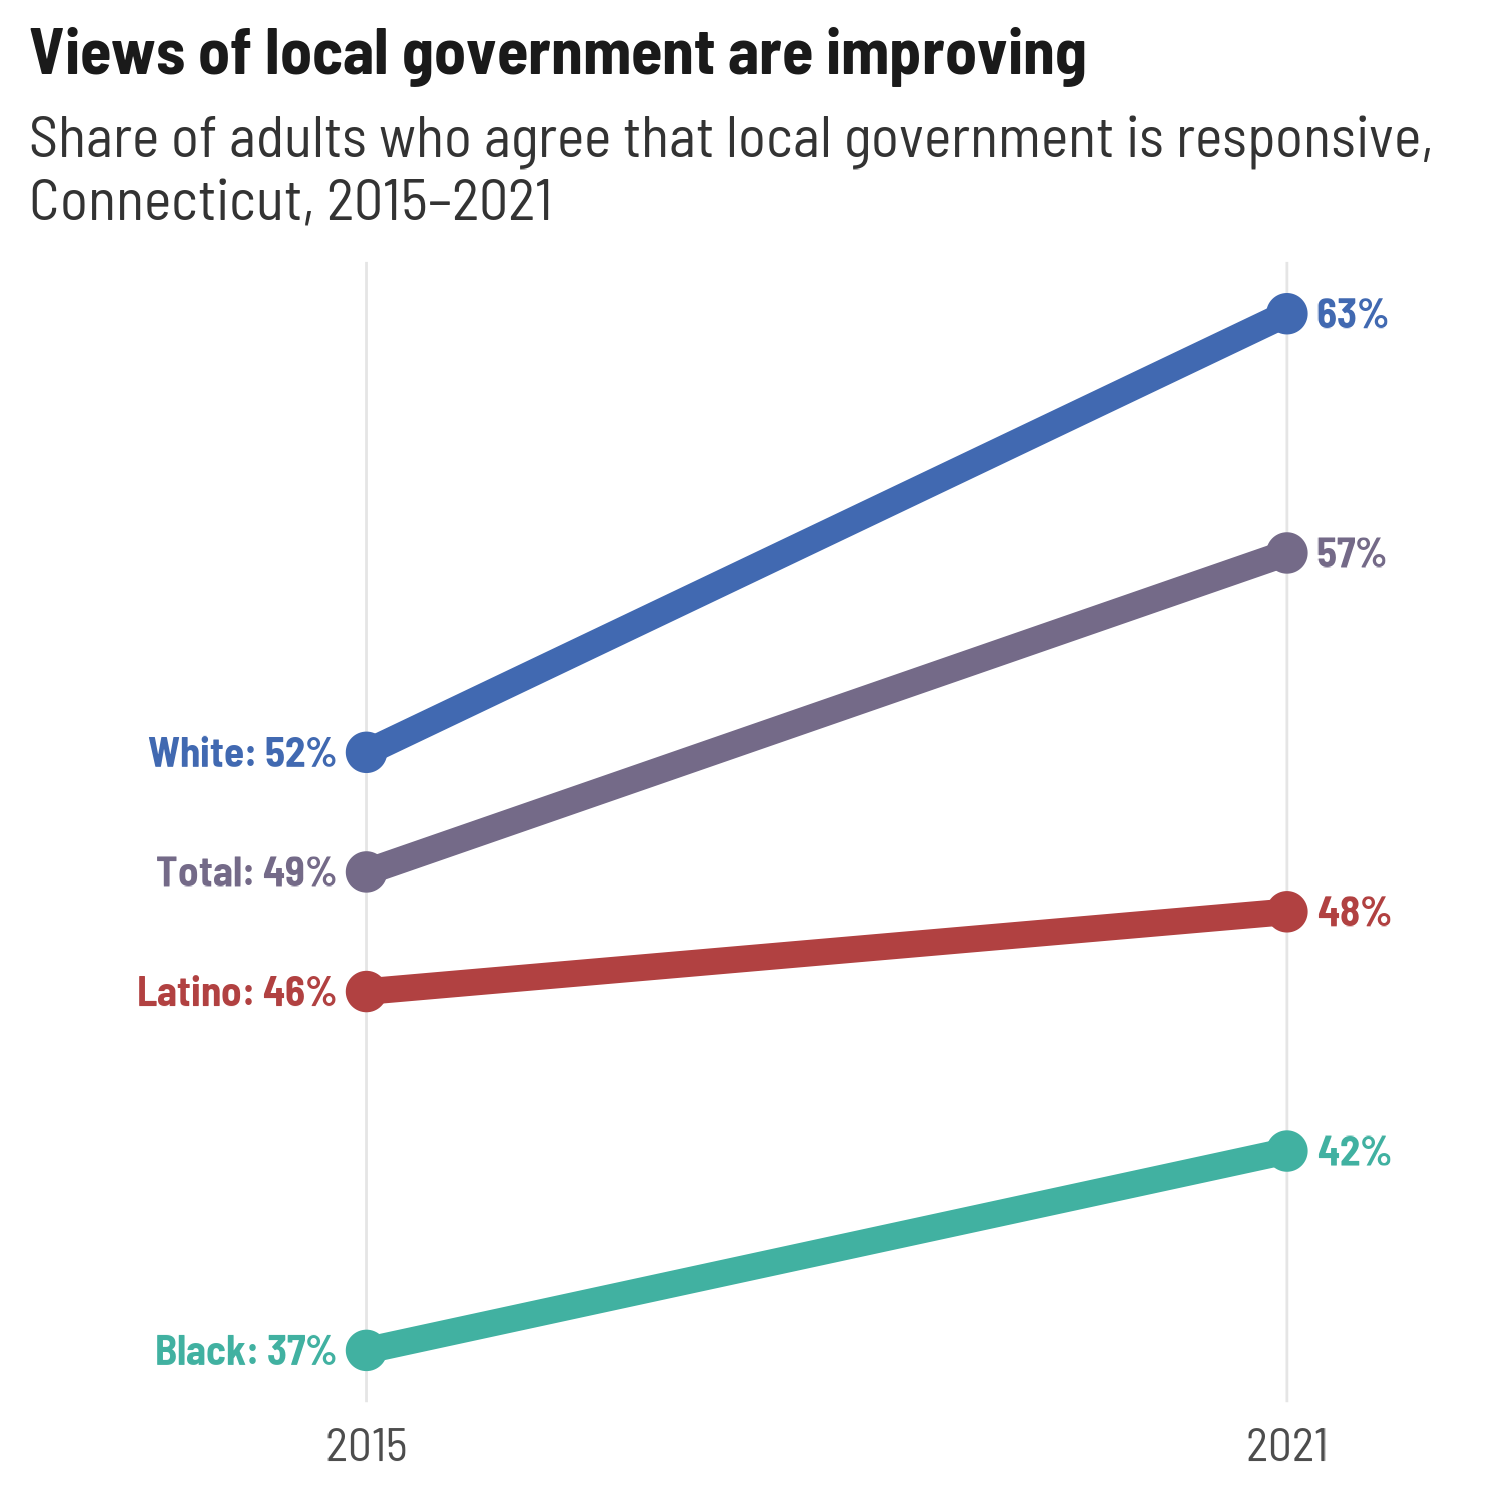
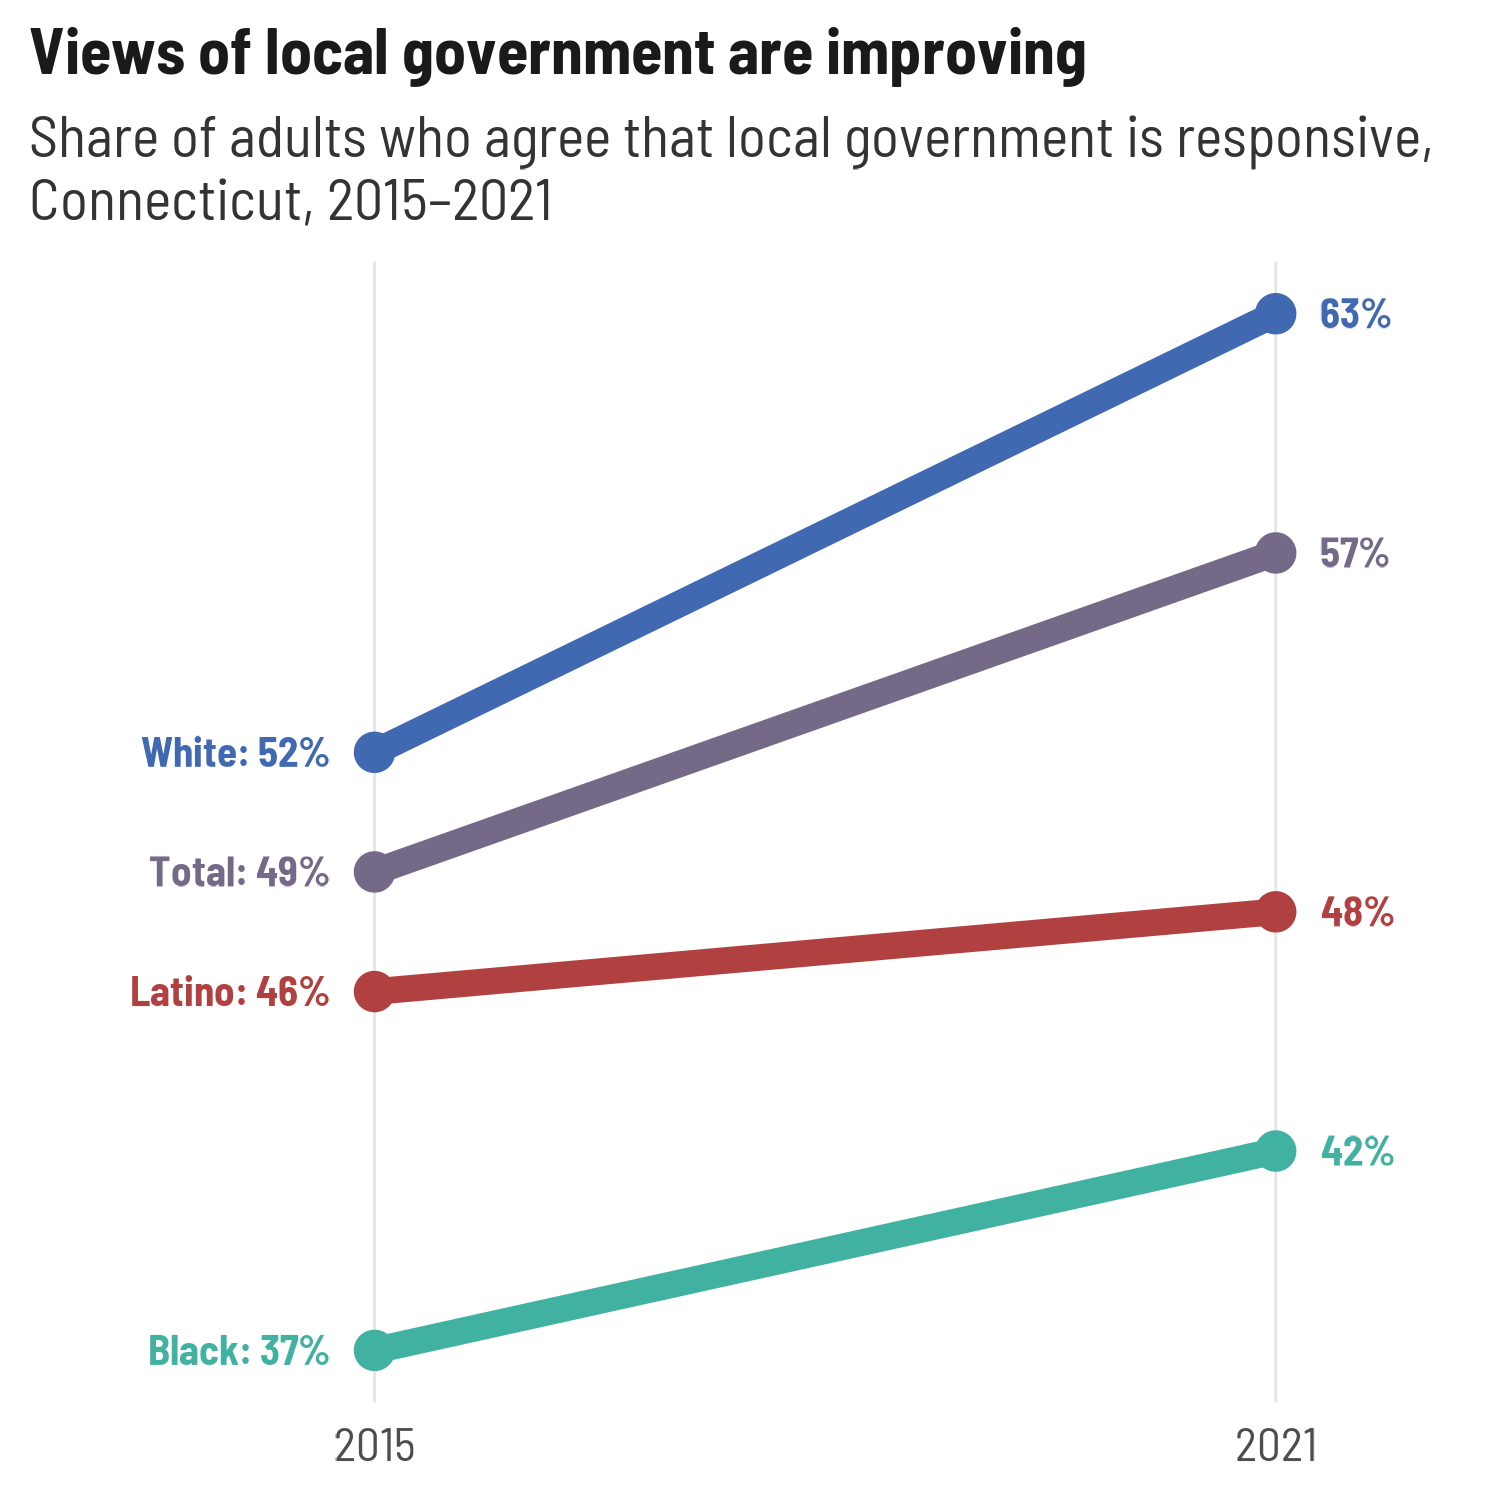
Built site for stylehaven: 0.1.1@e88f3d1

diff --git a/reference/endpoint_lbls.html b/reference/endpoint_lbls.html
@@ -10,7 +10,7 @@
     
     <a class="navbar-brand me-2" href="../index.html">stylehaven</a>
 
-    <small class="nav-text text-muted me-auto" data-bs-toggle="tooltip" data-bs-placement="bottom" title="">0.1.0</small>
+    <small class="nav-text text-muted me-auto" data-bs-toggle="tooltip" data-bs-placement="bottom" title="">0.1.1</small>
 
     
     <button class="navbar-toggler" type="button" data-bs-toggle="collapse" data-bs-target="#navbar" aria-controls="navbar" aria-expanded="false" aria-label="Toggle navigation">
@@ -59,9 +59,10 @@
 <span>  <span class="va">x</span>,</span>
 <span>  <span class="va">value</span>,</span>
 <span>  <span class="va">group</span>,</span>
-<span>  frac <span class="op">=</span> <span class="fl">0.2</span>,</span>
+<span>  mult <span class="op">=</span> <span class="fl">0.05</span>,</span>
+<span>  add <span class="op">=</span> <span class="cn">NULL</span>,</span>
 <span>  fun <span class="op">=</span> <span class="cn">NULL</span>,</span>
-<span>  long_side <span class="op">=</span> <span class="fu"><a href="https://rdrr.io/r/base/c.html" class="external-link">c</a></span><span class="op">(</span><span class="st">"right"</span>, <span class="st">"left"</span>, <span class="st">"both"</span><span class="op">)</span></span>
+<span>  long_side <span class="op">=</span> <span class="fu"><a href="https://rdrr.io/r/base/c.html" class="external-link">c</a></span><span class="op">(</span><span class="st">"right"</span>, <span class="st">"left"</span>, <span class="st">"both"</span>, <span class="st">"none"</span><span class="op">)</span></span>
 <span><span class="op">)</span></span></code></pre></div>
     </div>
 
@@ -83,8 +84,12 @@
 <dd><p>Bare column name of the name or grouping variable that should be shown in the labels.</p></dd>
 
 
-<dt>frac</dt>
-<dd><p>Numeric; ratio to the <code>x</code> variable by which labels should be offset. Default: 0.2</p></dd>
+<dt>mult</dt>
+<dd><p>Numeric; ratio to the <code>x</code> variable by which labels should be offset. Default: 0.05.</p></dd>
+
+
+<dt>add</dt>
+<dd><p>Numeric; single value along the <code>x</code> variable by which labels should be offset. Defaults <code>NULL</code>. If both <code>mult</code> and <code>add</code> are given, <code>mult</code> takes precedence. Previously there was a <code>frac</code> argument which was supposed to act like <code>mult</code> but erroneously acted like <code>add</code>.</p></dd>
 
 
 <dt>fun</dt>
@@ -92,7 +97,7 @@
 
 
 <dt>long_side</dt>
-<dd><p>Character, either <code>"right"</code> (the default), <code>"left"</code>, or <code>"both"</code>. For <code>"left"</code> or <code>"right"</code>, this refers to whether the longer label should be on the right or the left, returning a short label on the opposite side. If <code>"both"</code>, only the long label is returned. Labels are combined in a new column called <code>lbl</code>.</p></dd>
+<dd><p>Character, either <code>"right"</code> (the default), <code>"left"</code>, <code>"both"</code>, or <code>"none"</code>. For <code>"left"</code> or <code>"right"</code>, this refers to whether the longer label should be on the right or the left, returning a short label on the opposite side. If <code>"both"</code>, only long labels are returned; if <code>"none"</code>, only short labels are returned. Regardless, labels are combined in a new column called <code>lbl</code>.</p></dd>
 
 </dl></div>
     <div class="section level2">
@@ -106,9 +111,7 @@
 
     <div class="section level2">
     <h2 id="ref-examples">Examples<a class="anchor" aria-label="anchor" href="#ref-examples"></a></h2>
-    <div class="sourceCode"><pre class="sourceCode r"><code><span class="r-in"><span><span class="kw">if</span> <span class="op">(</span><span class="cn">FALSE</span><span class="op">)</span> <span class="op">{</span></span></span>
-<span class="r-in"><span><span class="kw">if</span><span class="op">(</span><span class="fu"><a href="https://rdrr.io/r/base/interactive.html" class="external-link">interactive</a></span><span class="op">(</span><span class="op">)</span><span class="op">)</span><span class="op">{</span></span></span>
-<span class="r-in"><span>   <span class="kw"><a href="https://rdrr.io/r/base/library.html" class="external-link">library</a></span><span class="op">(</span><span class="va"><a href="https://ggplot2.tidyverse.org" class="external-link">ggplot2</a></span><span class="op">)</span></span></span>
+    <div class="sourceCode"><pre class="sourceCode r"><code><span class="r-in"><span>   <span class="kw"><a href="https://rdrr.io/r/base/library.html" class="external-link">library</a></span><span class="op">(</span><span class="va"><a href="https://ggplot2.tidyverse.org" class="external-link">ggplot2</a></span><span class="op">)</span></span></span>
 <span class="r-in"><span>   <span class="co"># note that it will still be up to your judgment to set scale expansion,</span></span></span>
 <span class="r-in"><span>   <span class="co"># since that will depend on things outside the scope of just this function</span></span></span>
 <span class="r-in"><span>   <span class="va">cws_trend</span> <span class="op"><a href="pipe.html">%&gt;%</a></span></span></span>
@@ -120,18 +123,18 @@
 <span class="r-in"><span>     <span class="fu"><a href="https://ggplot2.tidyverse.org/reference/geom_point.html" class="external-link">geom_point</a></span><span class="op">(</span>size <span class="op">=</span> <span class="fl">3</span><span class="op">)</span> <span class="op">+</span></span></span>
 <span class="r-in"><span>     <span class="fu"><a href="https://ggplot2.tidyverse.org/reference/geom_text.html" class="external-link">geom_text</a></span><span class="op">(</span><span class="fu"><a href="https://ggplot2.tidyverse.org/reference/aes.html" class="external-link">aes</a></span><span class="op">(</span>label <span class="op">=</span> <span class="va">lbl</span>, hjust <span class="op">=</span> <span class="va">just</span>, x <span class="op">=</span> <span class="va">x</span><span class="op">)</span><span class="op">)</span> <span class="op">+</span></span></span>
 <span class="r-in"><span>     <span class="fu"><a href="https://ggplot2.tidyverse.org/reference/scale_continuous.html" class="external-link">scale_x_continuous</a></span><span class="op">(</span>expand <span class="op">=</span> <span class="fu"><a href="https://ggplot2.tidyverse.org/reference/expansion.html" class="external-link">expansion</a></span><span class="op">(</span>add <span class="op">=</span> <span class="fu"><a href="https://rdrr.io/r/base/c.html" class="external-link">c</a></span><span class="op">(</span><span class="fl">1</span>, <span class="fl">2</span><span class="op">)</span><span class="op">)</span><span class="op">)</span></span></span>
+<span class="r-plt img"><img src="endpoint_lbls-1.png" alt="" width="700" height="433"></span>
 <span class="r-in"><span></span></span>
 <span class="r-in"><span>   <span class="va">cws_trend</span> <span class="op"><a href="pipe.html">%&gt;%</a></span></span></span>
 <span class="r-in"><span>     <span class="fu">dplyr</span><span class="fu">::</span><span class="fu"><a href="https://dplyr.tidyverse.org/reference/filter.html" class="external-link">filter</a></span><span class="op">(</span><span class="va">indicator</span> <span class="op">==</span> <span class="st">"local_govt_responsive"</span>, <span class="va">category</span> <span class="op">==</span> <span class="st">"Age"</span><span class="op">)</span> <span class="op"><a href="pipe.html">%&gt;%</a></span></span></span>
 <span class="r-in"><span>     <span class="fu">endpoint_lbls</span><span class="op">(</span>value <span class="op">=</span> <span class="va">value</span>, x <span class="op">=</span> <span class="va">year</span>, group <span class="op">=</span> <span class="va">group</span>, long_side <span class="op">=</span> <span class="st">"both"</span>,</span></span>
-<span class="r-in"><span>                   fun <span class="op">=</span> <span class="va">percent100</span><span class="op">)</span> <span class="op"><a href="pipe.html">%&gt;%</a></span></span></span>
+<span class="r-in"><span>                   fun <span class="op">=</span> <span class="va">percent100</span>, add <span class="op">=</span> <span class="fl">0.1</span>, mult <span class="op">=</span> <span class="cn">NULL</span><span class="op">)</span> <span class="op"><a href="pipe.html">%&gt;%</a></span></span></span>
 <span class="r-in"><span>     <span class="fu"><a href="https://ggplot2.tidyverse.org/reference/ggplot.html" class="external-link">ggplot</a></span><span class="op">(</span><span class="fu"><a href="https://ggplot2.tidyverse.org/reference/aes.html" class="external-link">aes</a></span><span class="op">(</span>x <span class="op">=</span> <span class="va">year</span>, y <span class="op">=</span> <span class="va">value</span>, color <span class="op">=</span> <span class="va">group</span><span class="op">)</span><span class="op">)</span> <span class="op">+</span></span></span>
 <span class="r-in"><span>     <span class="fu"><a href="https://ggplot2.tidyverse.org/reference/geom_path.html" class="external-link">geom_line</a></span><span class="op">(</span><span class="op">)</span> <span class="op">+</span></span></span>
 <span class="r-in"><span>     <span class="fu"><a href="https://ggplot2.tidyverse.org/reference/geom_point.html" class="external-link">geom_point</a></span><span class="op">(</span>size <span class="op">=</span> <span class="fl">3</span><span class="op">)</span> <span class="op">+</span></span></span>
 <span class="r-in"><span>     <span class="fu"><a href="https://ggplot2.tidyverse.org/reference/geom_text.html" class="external-link">geom_text</a></span><span class="op">(</span><span class="fu"><a href="https://ggplot2.tidyverse.org/reference/aes.html" class="external-link">aes</a></span><span class="op">(</span>label <span class="op">=</span> <span class="va">lbl</span>, hjust <span class="op">=</span> <span class="va">just</span>, x <span class="op">=</span> <span class="va">x</span><span class="op">)</span><span class="op">)</span> <span class="op">+</span></span></span>
 <span class="r-in"><span>     <span class="fu"><a href="https://ggplot2.tidyverse.org/reference/scale_continuous.html" class="external-link">scale_x_continuous</a></span><span class="op">(</span>expand <span class="op">=</span> <span class="fu"><a href="https://ggplot2.tidyverse.org/reference/expansion.html" class="external-link">expansion</a></span><span class="op">(</span>add <span class="op">=</span> <span class="fl">2</span><span class="op">)</span><span class="op">)</span></span></span>
-<span class="r-in"><span> <span class="op">}</span></span></span>
-<span class="r-in"><span><span class="op">}</span></span></span>
+<span class="r-plt img"><img src="endpoint_lbls-2.png" alt="" width="700" height="433"></span>
 </code></pre></div>
     </div>
   </main><aside class="col-md-3"><nav id="toc"><h2>On this page</h2>

diff --git a/reference/palx.html b/reference/palx.html
@@ -12,7 +12,7 @@ You can view a palette graphically by running plot(my_palx), by setting plot = T
     
     <a class="navbar-brand me-2" href="../index.html">stylehaven</a>
 
-    <small class="nav-text text-muted me-auto" data-bs-toggle="tooltip" data-bs-placement="bottom" title="">0.1.0</small>
+    <small class="nav-text text-muted me-auto" data-bs-toggle="tooltip" data-bs-placement="bottom" title="">0.1.1</small>
 
     
     <button class="navbar-toggler" type="button" data-bs-toggle="collapse" data-bs-target="#navbar" aria-controls="navbar" aria-expanded="false" aria-label="Toggle navigation">
@@ -70,7 +70,7 @@ You can view a palette graphically by running plot(my_palx), by setting plot = T
 <span><span class="co"># S3 method for palx</span></span>
 <span><span class="fu">as_tibble</span><span class="op">(</span><span class="va">x</span>, <span class="va">...</span><span class="op">)</span></span>
 <span></span>
-<span><span class="fu">plot_palx</span><span class="op">(</span><span class="va">x</span>, labels <span class="op">=</span> <span class="cn">FALSE</span><span class="op">)</span></span></code></pre></div>
+<span><span class="fu">plot_palx</span><span class="op">(</span><span class="va">x</span>, <span class="va">...</span>, labels <span class="op">=</span> <span class="cn">FALSE</span><span class="op">)</span></span></code></pre></div>
     </div>
 
     <div class="section level2">
@@ -109,6 +109,10 @@ You can view a palette graphically by running plot(my_palx), by setting plot = T
 
 <dt>x</dt>
 <dd><p>The output of calling <code>palx</code>, as either a list or data frame</p></dd>
+
+
+<dt>...</dt>
+<dd><p>Not used</p></dd>
 
 </dl></div>
     <div class="section level2">

diff --git a/reference/dodge_lbls.html b/reference/dodge_lbls.html
@@ -28,7 +28,7 @@ dplyr::anti_join for the ones that don't need to be dodged (see example)."><!-- 
     
     <a class="navbar-brand me-2" href="../index.html">stylehaven</a>
 
-    <small class="nav-text text-muted me-auto" data-bs-toggle="tooltip" data-bs-placement="bottom" title="">0.1.0</small>
+    <small class="nav-text text-muted me-auto" data-bs-toggle="tooltip" data-bs-placement="bottom" title="">0.1.1</small>
 
     
     <button class="navbar-toggler" type="button" data-bs-toggle="collapse" data-bs-target="#navbar" aria-controls="navbar" aria-expanded="false" aria-label="Toggle navigation">

diff --git a/reference/offset_lbls.html b/reference/offset_lbls.html
@@ -12,7 +12,7 @@ ratio_to_max finds the maximum value in a vector, and returns some fraction of i
     
     <a class="navbar-brand me-2" href="../index.html">stylehaven</a>
 
-    <small class="nav-text text-muted me-auto" data-bs-toggle="tooltip" data-bs-placement="bottom" title="">0.1.0</small>
+    <small class="nav-text text-muted me-auto" data-bs-toggle="tooltip" data-bs-placement="bottom" title="">0.1.1</small>
 
     
     <button class="navbar-toggler" type="button" data-bs-toggle="collapse" data-bs-target="#navbar" aria-controls="navbar" aria-expanded="false" aria-label="Toggle navigation">

diff --git a/reference/round_sum100.html b/reference/round_sum100.html
@@ -18,7 +18,7 @@ rounding may make numbers not add up to exactly 100."><!-- mathjax --><script sr
     
     <a class="navbar-brand me-2" href="../index.html">stylehaven</a>
 
-    <small class="nav-text text-muted me-auto" data-bs-toggle="tooltip" data-bs-placement="bottom" title="">0.1.0</small>
+    <small class="nav-text text-muted me-auto" data-bs-toggle="tooltip" data-bs-placement="bottom" title="">0.1.1</small>
 
     
     <button class="navbar-toggler" type="button" data-bs-toggle="collapse" data-bs-target="#navbar" aria-controls="navbar" aria-expanded="false" aria-label="Toggle navigation">

diff --git a/reference/stack_lbls.html b/reference/stack_lbls.html
@@ -26,7 +26,7 @@ want to arrange and / or group data before passing values to stack_lbls."><!-- m
     
     <a class="navbar-brand me-2" href="../index.html">stylehaven</a>
 
-    <small class="nav-text text-muted me-auto" data-bs-toggle="tooltip" data-bs-placement="bottom" title="">0.1.0</small>
+    <small class="nav-text text-muted me-auto" data-bs-toggle="tooltip" data-bs-placement="bottom" title="">0.1.1</small>
 
     
     <button class="navbar-toggler" type="button" data-bs-toggle="collapse" data-bs-target="#navbar" aria-controls="navbar" aria-expanded="false" aria-label="Toggle navigation">

diff --git a/reference/tidyeval.html b/reference/tidyeval.html
@@ -74,7 +74,7 @@ section of Advanced R."><!-- mathjax --><script src="https://cdnjs.cloudflare.co
     
     <a class="navbar-brand me-2" href="../index.html">stylehaven</a>
 
-    <small class="nav-text text-muted me-auto" data-bs-toggle="tooltip" data-bs-placement="bottom" title="">0.1.0</small>
+    <small class="nav-text text-muted me-auto" data-bs-toggle="tooltip" data-bs-placement="bottom" title="">0.1.1</small>
 
     
     <button class="navbar-toggler" type="button" data-bs-toggle="collapse" data-bs-target="#navbar" aria-controls="navbar" aria-expanded="false" aria-label="Toggle navigation">

diff --git a/404.html b/404.html
@@ -25,7 +25,7 @@
     
     <a class="navbar-brand me-2" href="https://ct-data-haven.github.io/stylehaven/index.html">stylehaven</a>
 
-    <small class="nav-text text-muted me-auto" data-bs-toggle="tooltip" data-bs-placement="bottom" title="">0.1.0</small>
+    <small class="nav-text text-muted me-auto" data-bs-toggle="tooltip" data-bs-placement="bottom" title="">0.1.1</small>
 
     
     <button class="navbar-toggler" type="button" data-bs-toggle="collapse" data-bs-target="#navbar" aria-controls="navbar" aria-expanded="false" aria-label="Toggle navigation">

diff --git a/articles/dcws_example_plots.html b/articles/dcws_example_plots.html
@@ -27,7 +27,7 @@
     
     <a class="navbar-brand me-2" href="../index.html">stylehaven</a>
 
-    <small class="nav-text text-muted me-auto" data-bs-toggle="tooltip" data-bs-placement="bottom" title="">0.1.0</small>
+    <small class="nav-text text-muted me-auto" data-bs-toggle="tooltip" data-bs-placement="bottom" title="">0.1.1</small>
 
     
     <button class="navbar-toggler" type="button" data-bs-toggle="collapse" data-bs-target="#navbar" aria-controls="navbar" aria-expanded="false" aria-label="Toggle navigation">

diff --git a/articles/index.html b/articles/index.html
@@ -10,7 +10,7 @@
     
     <a class="navbar-brand me-2" href="../index.html">stylehaven</a>
 
-    <small class="nav-text text-muted me-auto" data-bs-toggle="tooltip" data-bs-placement="bottom" title="">0.1.0</small>
+    <small class="nav-text text-muted me-auto" data-bs-toggle="tooltip" data-bs-placement="bottom" title="">0.1.1</small>
 
     
     <button class="navbar-toggler" type="button" data-bs-toggle="collapse" data-bs-target="#navbar" aria-controls="navbar" aria-expanded="false" aria-label="Toggle navigation">

diff --git a/reference/cws2018.html b/reference/cws2018.html
@@ -10,7 +10,7 @@
     
     <a class="navbar-brand me-2" href="../index.html">stylehaven</a>
 
-    <small class="nav-text text-muted me-auto" data-bs-toggle="tooltip" data-bs-placement="bottom" title="">0.1.0</small>
+    <small class="nav-text text-muted me-auto" data-bs-toggle="tooltip" data-bs-placement="bottom" title="">0.1.1</small>
 
     
     <button class="navbar-toggler" type="button" data-bs-toggle="collapse" data-bs-target="#navbar" aria-controls="navbar" aria-expanded="false" aria-label="Toggle navigation">

diff --git a/reference/cws_trend.html b/reference/cws_trend.html
@@ -10,7 +10,7 @@
     
     <a class="navbar-brand me-2" href="../index.html">stylehaven</a>
 
-    <small class="nav-text text-muted me-auto" data-bs-toggle="tooltip" data-bs-placement="bottom" title="">0.1.0</small>
+    <small class="nav-text text-muted me-auto" data-bs-toggle="tooltip" data-bs-placement="bottom" title="">0.1.1</small>
 
     
     <button class="navbar-toggler" type="button" data-bs-toggle="collapse" data-bs-target="#navbar" aria-controls="navbar" aria-expanded="false" aria-label="Toggle navigation">
